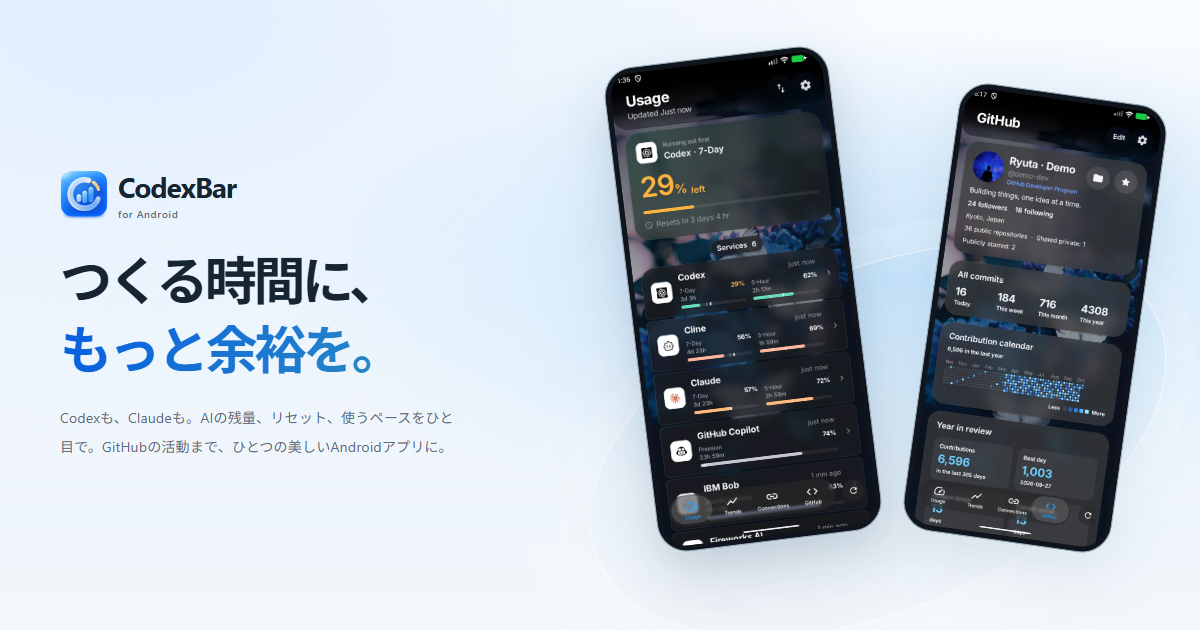
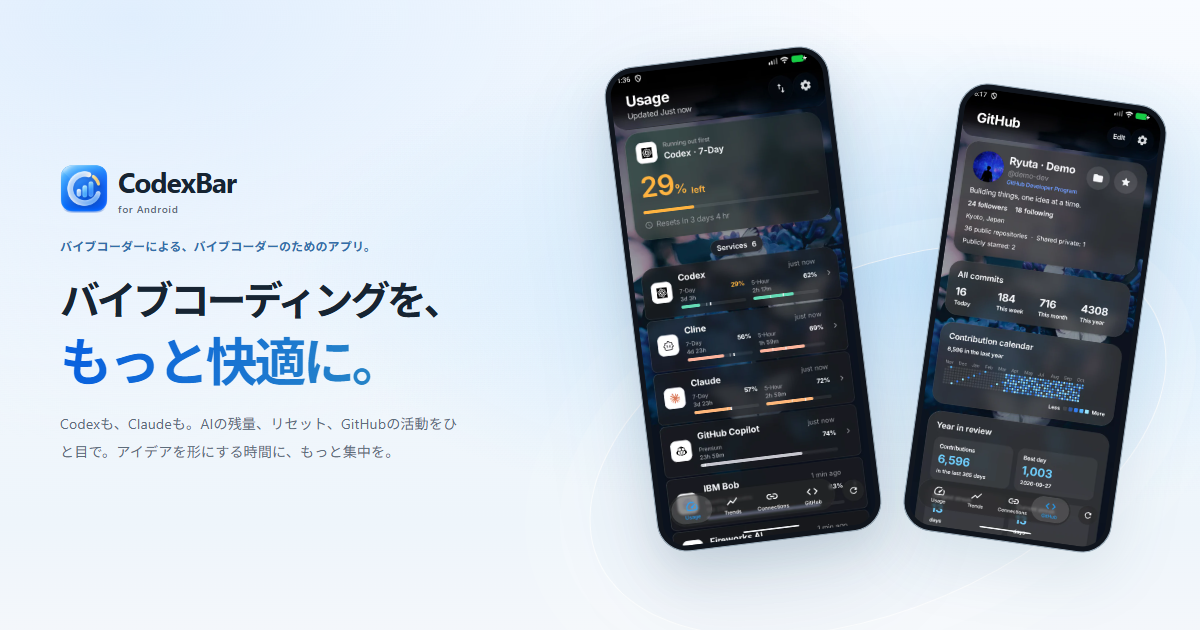
feat(web): lead with a vibe-coding focused headline

Changed region(s): [[0.0308, 0.2413, 0.4008, 0.7238]]

diff --git a/docs/index.html b/docs/index.html
@@ -3,10 +3,10 @@
   <head>
     <meta charset="utf-8" />
     <meta name="viewport" content="width=device-width, initial-scale=1" />
-    <title>CodexBar for Android — つくる時間に、もっと余裕を。</title>
+    <title>CodexBar for Android — バイブコーディングを、もっと快適に。</title>
     <meta
       name="description"
-      content="Codexも、Claudeも。AIの残量・リセット・利用ペースと、GitHubの活動をひとつのAndroidアプリに。Liquid Glass、Windows連携、無料・オープンソース。"
+      content="バイブコーディングを、もっと快適に。Codex・Claudeの残量やリセット、GitHubの活動をひとつに。無料・オープンソースのAndroidアプリ。"
     />
     <meta name="theme-color" content="#f4f7fb" />
     <meta name="color-scheme" content="light" />
@@ -21,11 +21,11 @@
     <meta property="og:site_name" content="CodexBar for Android" />
     <meta
       property="og:title"
-      content="つくる時間に、もっと余裕を。｜CodexBar for Android"
+      content="バイブコーディングを、もっと快適に。｜CodexBar for Android"
     />
     <meta
       property="og:description"
-      content="AIの使用量も、GitHubの活動も。Liquid Glassでひとつに。無料・オープンソースのAndroidアプリ。"
+      content="バイブコーダーによる、バイブコーダーのためのAndroidアプリ。AIの残量もGitHubの活動も、Liquid Glassでひとつに。"
     />
     <meta
       property="og:url"
@@ -130,14 +130,17 @@
               ><span class="label-divider"></span><span>Android 8.0+</span
               ><span aria-hidden="true">↗</span></a
             >
+            <p class="hero-audience" data-i18n="hero.audience">
+              バイブコーダーによる、バイブコーダーのためのアプリ。
+            </p>
             <h1 id="hero-title">
-              <span data-i18n="hero.line1">つくる時間に、</span
+              <span data-i18n="hero.line1">バイブコーディングを、</span
               ><span class="gradient-text" data-i18n="hero.line2"
-                >もっと余裕を。</span
+                >もっと快適に。</span
               >
             </h1>
             <p class="hero-lede" data-i18n="hero.description">
-              Codexも、Claudeも。AIの残量、リセット、使うペースをひと目で。GitHubの活動まで、ひとつの美しいAndroidアプリに。
+              Codexも、Claudeも。AIの残量、リセット、GitHubの活動をひと目で。アイデアを形にする時間に、もっと集中を。
             </p>
             <div class="hero-actions">
               <a class="button button-primary" href="#download"

diff --git a/docs/assets/site.js b/docs/assets/site.js
@@ -96,8 +96,8 @@ function renderText() {
   });
   document.title =
     language === "en"
-      ? "CodexBar for Android — Less checking. More creating."
-      : "CodexBar for Android — つくる時間に、もっと余裕を。";
+      ? "CodexBar for Android — Vibe coding. Better flow."
+      : "CodexBar for Android — バイブコーディングを、もっと快適に。";
 }
 function selectTour(name) {
   const screen = tourScreens[name];
@@ -252,10 +252,11 @@ const english = {
   "nav.design": "The design",
   "nav.connect": "Connect your PC",
   "nav.download": "Get the app ↓",
-  "hero.line1": "Less checking.",
-  "hero.line2": "More creating.",
+  "hero.audience": "By a vibe coder. For vibe coders.",
+  "hero.line1": "Vibe coding.",
+  "hero.line2": "Better flow.",
   "hero.description":
-    "Codex, Claude, and the rest of your AI toolkit. See your quotas, resets, and pace at a glance. Keep your GitHub activity close, in one beautifully crafted Android app.",
+    "Codex, Claude, and your GitHub activity, together. Keep an eye on your AI quotas and resets, and spend more of your time turning ideas into something real.",
   "hero.download": "Get it for Android",
   "hero.explore": "Take a look inside",
   "hero.fine": "Free and open source. No ads. No trackers.",

diff --git a/docs/assets/site.css b/docs/assets/site.css
@@ -1960,3 +1960,34 @@ html:not(.js) .menu-toggle {
     font-size: 9px;
   }
 }
+
+.hero-audience {
+  color: #326eaa;
+  font-size: 11px;
+  font-weight: 600;
+  line-height: 1.9;
+  margin-top: 24px;
+  letter-spacing: 0.015em;
+}
+.hero h1 {
+  margin-top: 13px;
+}
+.hero h1 > span:first-child {
+  font-size: clamp(28px, 3.2vw, 46px);
+}
+html[lang="en"] .hero h1 > span:first-child {
+  font-size: inherit;
+}
+@media (max-width: 640px) {
+  .hero-audience {
+    font-size: 10px;
+    max-width: 310px;
+    margin: 21px auto 0;
+  }
+  .hero h1 {
+    margin-top: 13px;
+  }
+  .hero h1 > span:first-child {
+    font-size: clamp(26px, 6.7vw, 32px);
+  }
+}
